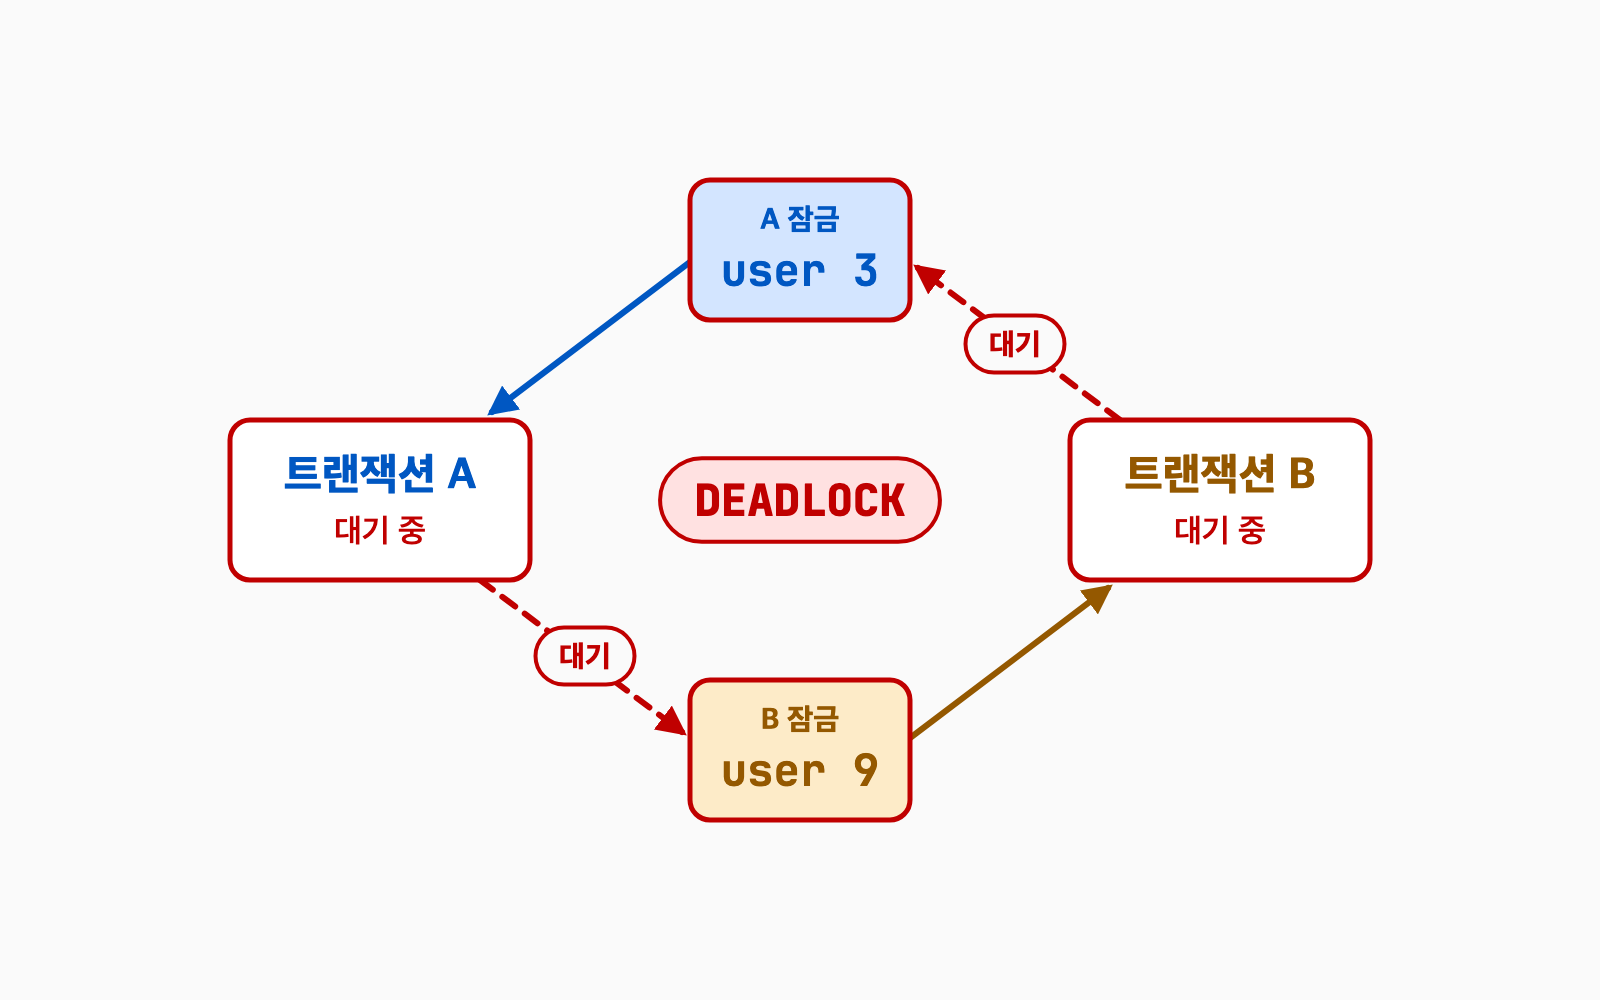
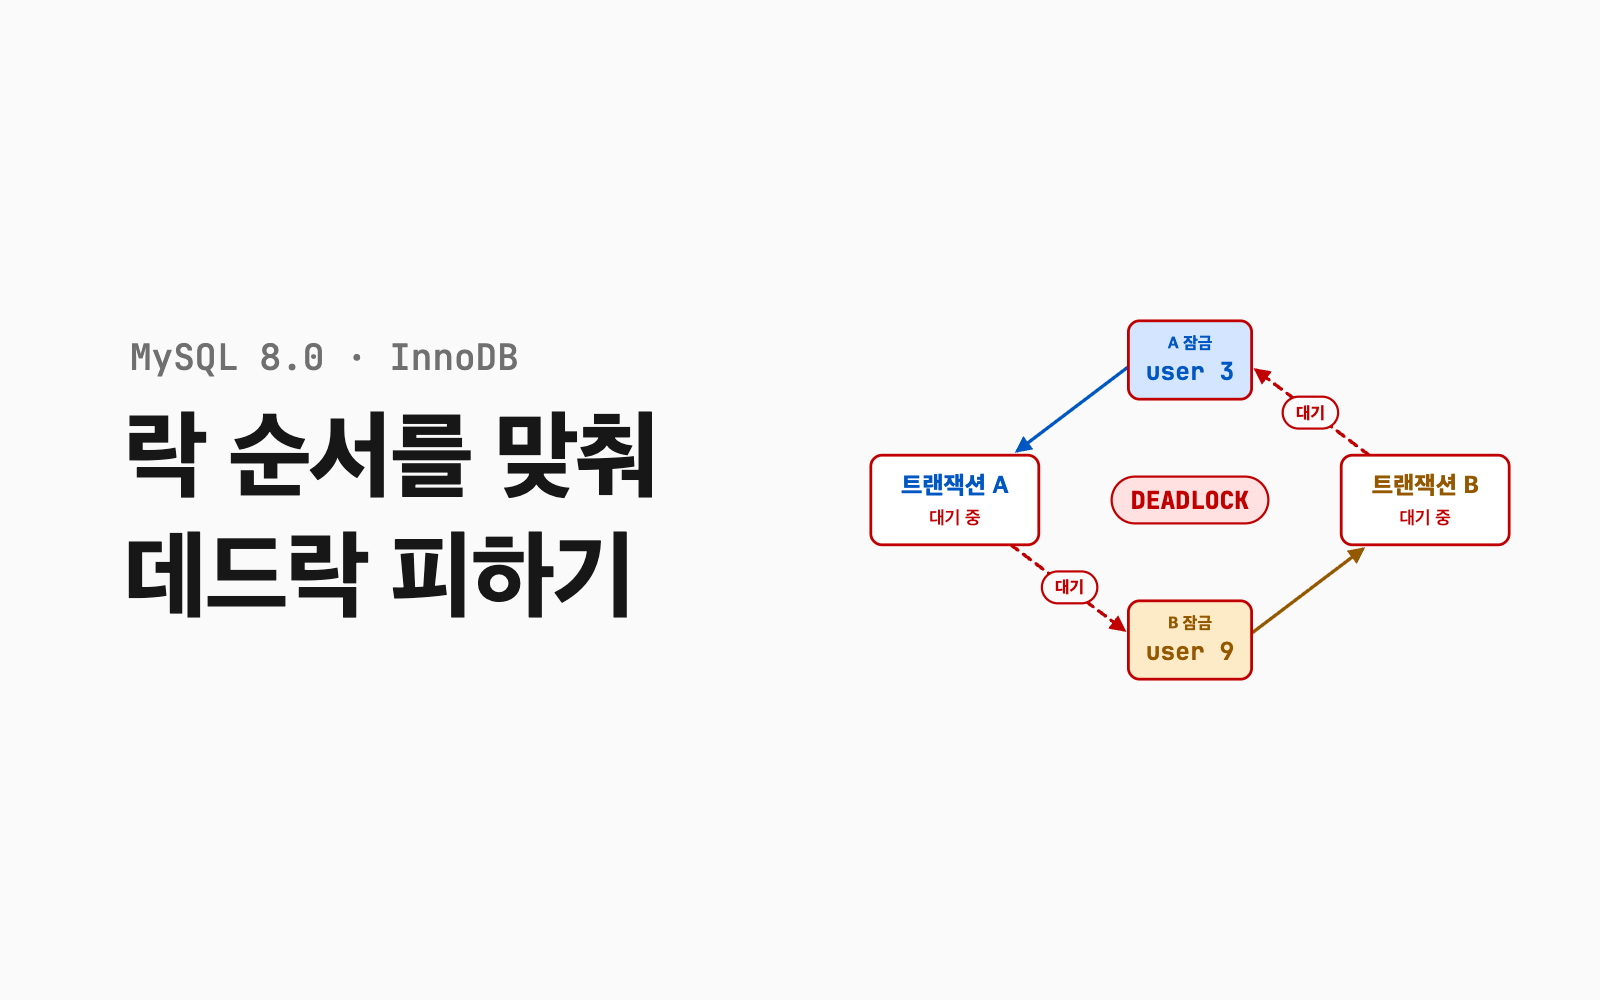
썸네일 생성

diff --git a/posts/아키텍처/원칙/2026-10-09-dependency-injection/assets/thumbnail.html b/posts/아키텍처/원칙/2026-10-09-dependency-injection/assets/thumbnail.html
@@ -1,0 +1,137 @@
+<!doctype html>
+<html lang="ko">
+<head>
+<meta charset="utf-8">
+<title>의존성 주입 썸네일</title>
+<style>
+  /* 색은 di-with.html과 같다 — 글 속 애니메이션과 같은 그림체로 */
+  :root {
+    --bg: #fafafa; --surface: #ffffff; --hair: #ebebeb; --hair-strong: #a1a1a1;
+    --ink: #171717; --ink-body: #4d4d4d; --mute: #707070;
+    --a: #0057c2; --a-soft: #d3e5ff;
+    --b: #945800; --b-soft: #fdebc8;
+    --err: #c00000; --err-soft: #ffe1e1;
+    --ok: #0b6b4b; --ok-soft: #d6f5ea;
+  }
+  html, body { margin: 0; background: var(--bg); }
+  body { font-family: Pretendard, -apple-system, "Apple SD Gothic Neo", sans-serif; }
+  svg { display: block; width: 1600px; height: 1000px; }
+  .mono { font-family: "JetBrains Mono", ui-monospace, Menlo, monospace; font-variant-ligatures: none; }
+</style>
+</head>
+<body>
+<svg id="s" viewBox="0 0 1600 1000"></svg>
+<script>
+// 글 대표이미지(= og:image). 시안 셋 중 B(제목 + 도식)로 정했다(2026-10-10) — a·c는 비교용으로 남긴다.
+// 다시 찍기: Chrome --headless=new --force-device-scale-factor=1 --window-size=1600,1000 --screenshot=thumbnail.png 'thumbnail.html?v=b'
+var v = new URLSearchParams(location.search).get('v') || 'b';
+
+function esc(s) { return String(s).replace(/&/g, '&amp;').replace(/</g, '&lt;').replace(/>/g, '&gt;'); }
+function text(x, y, s, style, cls) {
+  return '<text x="' + x + '" y="' + y + '"' + (cls ? ' class="' + cls + '"' : '') + ' style="' + style + '">' + esc(s) + '</text>';
+}
+function rect(x, y, w, h, fill, stroke, sw, rx, extra) {
+  return '<rect x="' + x + '" y="' + y + '" width="' + w + '" height="' + h + '" rx="' + (rx || 20) + '"' + (extra || '') +
+    ' style="fill:var(' + fill + ');stroke:var(' + stroke + ');stroke-width:' + sw + '"/>';
+}
+function curve(d, col, dash, w) {
+  return '<path d="' + d + '" fill="none"' + (dash ? ' stroke-dasharray="16 12"' : '') + ' stroke-linecap="round"' +
+    ' style="stroke:var(' + col + ');stroke-width:' + (w || 6) + '" marker-end="url(#m' + col.slice(2) + ')"/>';
+}
+function pill(cx, cy, s, fill, stroke, col, size, cls) {
+  var w = s.length * size * (cls ? 0.62 : 0.95) + size * 1.4, h = size * 1.9;
+  return rect(cx - w / 2, cy - h / 2, w, h, fill, stroke, 4, h / 2) +
+    text(cx, cy + size * 0.36, s, 'fill:var(' + col + ');font-size:' + size + 'px;font-weight:800;text-anchor:middle', cls);
+}
+function defs() {
+  return '<defs>' + ['--a', '--b', '--err', '--ok', '--hair-strong'].map(function (c) {
+    return '<marker id="m' + c.slice(2) + '" viewBox="0 0 10 10" refX="8" refY="5" markerUnits="userSpaceOnUse" markerWidth="30" markerHeight="30" orient="auto">' +
+      '<path d="M0,0 L10,5 L0,10 z" style="fill:var(' + c + ')"/></marker>';
+  }).join('') + '</defs>';
+}
+
+// 부품 하나 — 이름만 (「: Leg」 표시는 뺐다, 사용자 결정 2026-10-10)
+function part(x, y, w, h, name, fill, stroke, col, sw) {
+  return rect(x, y, w, h, fill, stroke, sw || 4, 18) +
+    text(x + w / 2, y + h / 2 + 13, name, 'fill:var(' + col + ');font-size:36px;font-weight:800;text-anchor:middle');
+}
+
+// 도식 — 가운데 (800,500) 기준. mode: 'di'(Leg 자리에 밖에서 끼운다) | 'nodi'(안에서 정해져 있다)
+function diagram(mode) {
+  var di = mode === 'di', out = [];
+  var BX = 200, BY = 200, BW = 720, BH = 600;          // HumanBody
+  var SY = 570, SW = 290, SH = 170, SL = 250, SR = 580; // 다리 자리
+  var PX = 1060, PW = 380, PH = 150, PY = [230, 425, 620]; // 밖의 부품
+
+  // HumanBody
+  out.push(rect(BX, BY, BW, BH, '--surface', di ? '--ok' : '--err', 5, 28));
+  out.push(text(BX + BW / 2, BY + 72, 'HumanBody', 'fill:var(--ink);font-size:48px;font-weight:800;text-anchor:middle'));
+  out.push(rect(250, 310, 620, 200, '--bg', '--hair', 3, 16));
+  if (di) {
+    out.push(text(292, 395, 'leftLeg:  Leg', 'fill:var(--ink-body);font-size:38px;white-space:pre', 'mono'));
+    out.push(text(292, 455, 'rightLeg: Leg', 'fill:var(--ink-body);font-size:38px;white-space:pre', 'mono'));
+  } else {
+    out.push(text(282, 370, 'when (type) {', 'fill:var(--ink-body);font-size:30px;white-space:pre', 'mono'));
+    out.push(text(282, 422, '  ORGANIC -> WALK', 'fill:var(--ink-body);font-size:30px;white-space:pre', 'mono'));
+    out.push(text(282, 474, '  WHEEL -> WheelLeg()', 'fill:var(--err);font-size:30px;font-weight:700;white-space:pre', 'mono'));
+  }
+
+  // 선 — HumanBody 위, 자리·부품 아래에 그린다(화살촉이 상자에 덮이지 않게)
+  if (di) {
+    out.push(curve('M1058,500 C980,500 990,700 884,700', '--hair-strong', true, 5));
+    out.push(curve('M1058,695 C990,695 990,722 884,722', '--hair-strong', true, 5));
+    out.push(curve('M1058,305 C950,305 990,655 884,655', '--ok', false, 7));
+  } else {
+    out.push(curve('M1058,305 C1000,305 990,420 942,420', '--err', true, 6));
+  }
+
+  // 다리 자리
+  if (di) {
+    out.push(part(SL, SY, SW, SH, 'OrganicLeg', '--surface', '--ink-body', '--ink'));
+    out.push('<rect x="' + SR + '" y="' + SY + '" width="' + SW + '" height="' + SH + '" rx="18" stroke-dasharray="16 10"' +
+      ' style="fill:var(--a-soft);stroke:var(--a);stroke-width:4"/>');
+    out.push(text(SR + SW / 2, SY + 80, 'Leg', 'fill:var(--a);font-size:44px;font-weight:800;text-anchor:middle'));
+    out.push(text(SR + SW / 2, SY + 128, 'rightLeg', 'fill:var(--a);font-size:28px;text-anchor:middle', 'mono'));
+  } else {
+    [[SL, 'ORGANIC'], [SR, 'WHEEL']].forEach(function (p) {
+      out.push(rect(p[0], SY, SW, SH, '--err-soft', '--err', 4, 18));
+      out.push(text(p[0] + SW / 2, SY + 72, 'LegType', 'fill:var(--mute);font-size:28px;text-anchor:middle', 'mono'));
+      out.push(text(p[0] + SW / 2, SY + 122, p[1], 'fill:var(--err);font-size:38px;font-weight:800;text-anchor:middle', 'mono'));
+    });
+  }
+
+  // 밖의 부품 — 같은 Leg 규격
+  out.push(part(PX, PY[0], PW, PH, 'BionicLeg', di ? '--ok-soft' : '--surface', di ? '--ok' : '--hair-strong', di ? '--ok' : '--mute', di ? 6 : 4));
+  out.push(part(PX, PY[1], PW, PH, 'ArchotechLeg', '--surface', '--hair-strong', '--mute'));
+  out.push(part(PX, PY[2], PW, PH, 'WheelLegAdapter', '--surface', '--hair-strong', '--mute'));
+
+  if (!di) out.push(pill(955, 420, '✕', '--err-soft', '--err', '--err', 34));
+  return out.join('');
+}
+function place(inner, cx, cy, s) {
+  return '<g transform="translate(' + cx + ',' + cy + ') scale(' + s + ') translate(-810,-500)">' + inner + '</g>';
+}
+
+var out = defs() + '<rect width="1600" height="1000" style="fill:var(--bg)"/>';
+
+if (v === 'a') {
+  // 글자 없는 판 — Leg 자리에 밖에서 만든 다리를 끼운다
+  out += place(diagram('di'), 800, 500, 1);
+} else if (v === 'b') {
+  // 제목 + 도식
+  out += text(130, 370, '객체지향', 'fill:var(--mute);font-size:36px;font-weight:600');
+  out += text(124, 490, '의존성 주입과', 'fill:var(--ink);font-size:96px;font-weight:800;letter-spacing:-2px');
+  out += text(124, 610, '다형성', 'fill:var(--ink);font-size:96px;font-weight:800;letter-spacing:-2px');
+  out += place(diagram('di'), 1100, 500, 0.6);
+} else {
+  // 전후 비교 — 안에서 정한다 vs 밖에서 받는다
+  [['nodi', 450, '안에서 정하면', '--err'], ['di', 1150, '밖에서 받으면', '--ok']].forEach(function (p) {
+    out += rect(p[1] - 330, 160, 660, 680, '--surface', '--hair', 3, 28);
+    out += place(diagram(p[0]), p[1], 440, 0.5);
+    out += text(p[1], 770, p[2], 'fill:var(' + p[3] + ');font-size:44px;font-weight:800;text-anchor:middle');
+  });
+}
+document.getElementById('s').innerHTML = out;
+</script>
+</body>
+</html>

diff --git a/posts/데이터베이스/MySQL/2026-10-08-lock-order-deadlock/assets/thumbnail.html b/posts/데이터베이스/MySQL/2026-10-08-lock-order-deadlock/assets/thumbnail.html
@@ -22,9 +22,9 @@
 <body>
 <svg id="s" viewBox="0 0 1600 1000"></svg>
 <script>
-// 글 대표이미지(= og:image). 시안 셋 중 A(글자 없음)로 정했다(2026-10-09) — b·c는 비교용으로 남긴다.
-// 다시 찍기: Chrome --headless=new --force-device-scale-factor=1 --window-size=1600,1000 --screenshot=thumbnail.png 'thumbnail.html?v=a'
-var v = new URLSearchParams(location.search).get('v') || 'a';
+// 글 대표이미지(= og:image). 처음엔 A(글자 없음)였다가(2026-10-09) 제목을 넣은 B로 바꿨다(2026-10-10) — a·c는 비교용으로 남긴다.
+// 다시 찍기: Chrome --headless=new --force-device-scale-factor=1 --window-size=1600,1000 --screenshot=thumbnail.png 'thumbnail.html?v=b'
+var v = new URLSearchParams(location.search).get('v') || 'b';
 
 function esc(s) { return String(s).replace(/&/g, '&amp;').replace(/</g, '&lt;'); }
 function text(x, y, s, style, cls) {
@@ -100,12 +100,10 @@ if (v === 'a') {
   // 글자 없는 판 — 데드락 고리 하나
   out += place(diagram('deadlock'), 800, 500, 1);
 } else if (v === 'b') {
-  // 문구 + 도식
-  out += text(130, 350, 'MySQL 8.0 · InnoDB', 'fill:var(--mute);font-size:36px;font-weight:600', 'mono');
-  out += text(124, 470, '락 순서를 맞춰', 'fill:var(--ink);font-size:96px;font-weight:800;letter-spacing:-2px');
-  out += text(124, 590, '데드락 피하기', 'fill:var(--ink);font-size:96px;font-weight:800;letter-spacing:-2px');
-  out += rect(130, 650, 470, 70, '--err-soft', '--err', 4, 35);
-  out += text(365, 697, 'ERROR 1213 (40001)', 'fill:var(--err);font-size:32px;font-weight:700;text-anchor:middle', 'mono');
+  // 제목 + 도식 — 의존성 주입 글 썸네일과 같은 배치(2026-10-10)
+  out += text(130, 370, 'MySQL 8.0 · InnoDB', 'fill:var(--mute);font-size:36px;font-weight:600', 'mono');
+  out += text(124, 490, '락 순서를 맞춰', 'fill:var(--ink);font-size:96px;font-weight:800;letter-spacing:-2px');
+  out += text(124, 610, '데드락 피하기', 'fill:var(--ink);font-size:96px;font-weight:800;letter-spacing:-2px');
   out += place(diagram('deadlock'), 1190, 500, 0.56);
 } else {
   // 전후 비교 — 제각각 순서 vs 정렬
